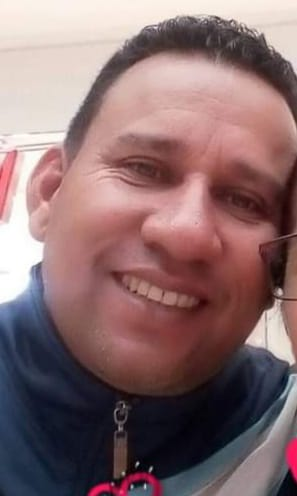
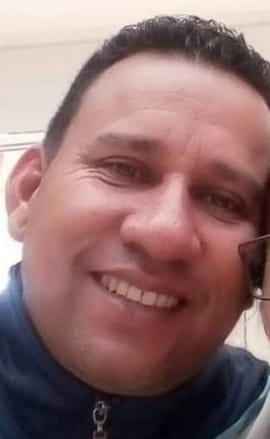
sliders

diff --git a/kindergarten-website-template/about.html b/kindergarten-website-template/about.html
@@ -27,6 +27,10 @@
 
     <!-- Customized Bootstrap Stylesheet -->
     <link href="css/style.css" rel="stylesheet">
+    
+    
+  
+
 </head>
 
 <body>
@@ -77,31 +81,52 @@
         <div class="container">
             <div class="row align-items-center">
                 <div class="col-lg-5">
-                    <img class="img-fluid rounded mb-5 mb-lg-0" src="img/about-1.jpg" alt="">
+                    
                 </div>
-                <div class="col-lg-7">
-                    <p class="section-title pr-5"><span class="pr-2">Learn About Us</span></p>
-                    <h1 class="mb-4">Best School For Your Kids</h1>
-                    <p>Invidunt lorem justo sanctus clita. Erat lorem labore ea, justo dolor lorem ipsum ut sed eos,
-                        ipsum et dolor kasd sit ea justo. Erat justo sed sed diam. Ea et erat ut sed diam sea ipsum est
-                        dolor</p>
-                    <div class="row pt-2 pb-4">
-                        <div class="col-6 col-md-4">
-                            <img class="img-fluid rounded" src="img/about-2.jpg" alt="">
-                        </div>
-                        <div class="col-6 col-md-8">
-                            <ul class="list-inline m-0">
-                                <li class="py-2 border-top border-bottom"><i class="fa fa-check text-primary mr-3"></i>Labore eos amet dolor amet diam</li>
-                                <li class="py-2 border-bottom"><i class="fa fa-check text-primary mr-3"></i>Etsea et sit dolor amet ipsum</li>
-                                <li class="py-2 border-bottom"><i class="fa fa-check text-primary mr-3"></i>Diam dolor diam elitripsum vero.</li>
-                            </ul>
-                        </div>
-                    </div>
-                    <a href="" class="btn btn-primary mt-2 py-2 px-4">Learn More</a>
+                <center><div class="col-lg-7">
+                    <p class="section-title"><span class="pr-2">Reseña Histórica</span></p>
+                   
+                    <p class="lead text-justify">El municipio de El Pital es de origen indígena, de la nación Páez, y sólo se encuentran datos 
+                        desde 1664, donde figuran los dominios del Cacique Pitaló o Pitayó. Las principales tribus de 
+                        esta región fueron los Gorrones, Pajoyes y Achipies. El nombre de El Pital obedece al 
+                        recuerdo del indio Pitayó o Pitaló, que en épocas pretéritas fue cacique distinguido de esa 
+                        zona, pero al llegar los españoles y adueñarse de las tierras, mediante la Ley de la Suprema 
+                        Corona, 1564, se produjo un mestizaje de lenguas que terminó modificando los nombres de 
+                        los sitios, ríos, pueblos y caciques; los españoles tomaban la voz sonora que a ellos más 
+                        les convenía; de Pitayó y se quedaron solamente con El Pital.
+                        En 1664 son fundadas las capellanías de Lagunilla, hoy vereda Hato Viejo, la zarza y Herrera 
+                        del Campo, como primer sacerdote figura Juan Celedonio López y Avilés. En 1709 Don Juan 
+                        Palomino y Salazar, español vecino de Timaná, adquiere la Hacienda del Cacique Pitaló o 
+                        Pitayó, como pago por ser encomendero monistral, los predios que abarcan hoy el sitio de El 
+                        Pital. 
+                        En 1711 la viuda Bárbara del Campo y Salazar llama a unos indígenas paeces de 
+                        Tierradentro y les dona un lote de terreno ubicado en el norte de la quebrada de El Pital. En
+                        1718 Doña Bárbara logra que el caserío adquiera categoría de parroquia de Santa Rosa de
+                        Lima de El Pital.
+                        En 1720 un indígena paez encontró una vitela de la Virgen del Amparo. En 1727 el caserío 
+                        figura como pueblo de Santa Rosa de Lima de El Pital. En 1780 El Pital es erigido distrito 
+                        municipal y su primer alcalde fué el señor Manuel Trujillo. Durante la Guerra Magna, el Pital 
+                        aportó su contingente de luces, vidas y haciendas: tuvieron aquí su fuente bautismal, el 
+                        Capitán Antonio Casanova, quien prestó sus servicios desde 1813 hasta 1831; don
+                        Gregorio Gómez Iriarte, que dispuso de sus cuantiosos intereses en servicios de la patria, y
+                        don Joaquín Gómez Iriarte, Diputado a la Convención de Ocaña en 1828.
+                        Fue también cristianizado en el Pital el doctor José María Rojas Garrido, orador, poeta y 
+                        jurisconsulto; en distintas ocasiones ocupó puesto en las Cámaras Legislativa; fué 
+                        Ministro Plenipotenciario del Gobierno de Colombia ante Venezuela; Secretario de Estado y
+                        Presidente de la República. En 1863 La Junta Constitucional de Colombia dicta la Ley 
+                        denominada “manos muertas”, para expropiar los bienes de las parroquias y el Pital pierde
+                        una considerable suma.
+                        En 1939 La Asamblea del Huila ordena el servicio de alumbrado eléctrico para El Pital. En 
+                        1972 es inaugurada la agencia de la Caja Agraria, su primer director fue don Luís Eduardo 
+                        Pasos. En 1988 es elegido mediante voto popular el señor Gilberto Luís Castillo 
+                        Andrade como primer alcalde bajo esa modalidad.</p>
+                   
+                    
                 </div>
             </div>
         </div>
     </div>
+</center>
     <!-- About End -->
 
 
@@ -113,17 +138,73 @@
                     <div class="d-flex bg-light shadow-sm border-top rounded mb-4" style="padding: 30px;">
                         <i class="flaticon-050-fence h1 font-weight-normal text-primary mb-3"></i>
                         <div class="pl-4">
-                            <h4>Play Ground</h4>
-                            <p class="m-0">Kasd labore kasd et dolor est rebum dolor ut, clita dolor vero lorem amet elitr vero...</p>
-                        </div>
-                    </div>
-                </div>
+                            <div class="accordion" id="accordionExample">
+                                <div class="accordion-item">
+                                  <h2 class="accordion-header">
+                                    <button class="accordion-button" type="button" data-bs-toggle="collapse" data-bs-target="#collapseOne" aria-expanded="true" aria-controls="collapseOne">
+                                     <h4>Misión</h4>
+                                    </button>
+                                  </h2>
+                                  <div id="collapseOne" class="accordion-collapse collapse show" data-bs-parent="#accordionExample">
+                                    <div class="accordion-body">
+                                        <p class="m-0">Como organización social de naturaleza privada, formamos integralmente a los educandos 
+                                            de Preescolar, Básica Primaria, Básica Secundaria y Media Académica, en una propuesta 
+                                            educativa enfocada hacia la autonomía, la inlusión, la responsabilidad moral, ética y cívica, 
+                                            bajo los criterios de identidad, pertenencia y solidaridad en los contextos familiares, 
+                                            sociales, laborales, culturales y ambientales, que respondan a las necesidades individuales 
+                                            y a los retos locales, regionales y nacionales.</p>
+                                              
+                                    </div>
+                                  </div>
+                                </div>
+                                <div class="accordion-item">
+                                  <h2 class="accordion-header">
+                                    <button class="accordion-button collapsed" type="button" data-bs-toggle="collapse" data-bs-target="#collapseTwo" aria-expanded="false" aria-controls="collapseTwo">
+                                      Accordion Item #2
+                                    </button>
+                                  </h2>
+                                  <div id="collapseTwo" class="accordion-collapse collapse" data-bs-parent="#accordionExample">
+                                    <div class="accordion-body">
+                                      <strong>This is the second item's accordion body.</strong> It is hidden by default, until the collapse plugin adds the appropriate classes that we use to style each element. These classes control the overall appearance, as well as the showing and hiding via CSS transitions. You can modify any of this with custom CSS or overriding our default variables. It's also worth noting that just about any HTML can go within the <code>.accordion-body</code>, though the transition does limit overflow.
+                                    </div>
+                                  </div>
+                                </div>
+                                <div class="accordion-item">
+                                  <h2 class="accordion-header">
+                                    <button class="accordion-button collapsed" type="button" data-bs-toggle="collapse" data-bs-target="#collapseThree" aria-expanded="false" aria-controls="collapseThree">
+                                      Accordion Item #3
+                                    </button>
+                                  </h2>
+                                  <div id="collapseThree" class="accordion-collapse collapse" data-bs-parent="#accordionExample">
+                                    <div class="accordion-body">
+                                      <strong>This is the third item's accordion body.</strong> It is hidden by default, until the collapse plugin adds the appropriate classes that we use to style each element. These classes control the overall appearance, as well as the showing and hiding via CSS transitions. You can modify any of this with custom CSS or overriding our default variables. It's also worth noting that just about any HTML can go within the <code>.accordion-body</code>, though the transition does limit overflow.
+                                    </div>
+                                  </div>
+                                </div>
+                              </div>
+                            
+                
                 <div class="col-lg-4 col-md-6 pb-1">
                     <div class="d-flex bg-light shadow-sm border-top rounded mb-4" style="padding: 30px;">
                         <i class="flaticon-022-drum h1 font-weight-normal text-primary mb-3"></i>
                         <div class="pl-4">
-                            <h4>Music and Dance</h4>
-                            <p class="m-0">Kasd labore kasd et dolor est rebum dolor ut, clita dolor vero lorem amet elitr vero...</p>
+                           
+                            <div class="accordion-item">
+                                <h2 class="accordion-header">
+                                  <button class="accordion-button collapsed" type="button" data-bs-toggle="collapse" data-bs-target="#panelsStayOpen-collapseTwo" aria-expanded="false" aria-controls="panelsStayOpen-collapseTwo">
+                                    <h4>Visión</h4>
+                                  </button>
+                                </h2>
+                                <div id="panelsStayOpen-collapseTwo" class="accordion-collapse collapse">
+                                  <div class="accordion-body">
+                                    <p class="m-0">El Colegio Cooperativo Domingo Savio, con su propuesta curricular propia e 
+                                        innovadora, se proyecta para el 2025 ser el líder en la formación de un ciudadano 
+                                        comprometido con su entorno escolar, familiar, social y ambiental, con capacidad para dirigir 
+                                        los cambios que la sociedad necesite.</p>
+                                  </div>
+                                </div>
+                              </div>
+                        
                         </div>
                     </div>
                 </div>
@@ -131,36 +212,31 @@
                     <div class="d-flex bg-light shadow-sm border-top rounded mb-4" style="padding: 30px;">
                         <i class="flaticon-030-crayons h1 font-weight-normal text-primary mb-3"></i>
                         <div class="pl-4">
-                            <h4>Arts and Crafts</h4>
-                            <p class="m-0">Kasd labore kasd et dolor est rebum dolor ut, clita dolor vero lorem amet elitr vero...</p>
-                        </div>
-                    </div>
-                </div>
-                <div class="col-lg-4 col-md-6 pb-1">
-                    <div class="d-flex bg-light shadow-sm border-top rounded mb-4" style="padding: 30px;">
-                        <i class="flaticon-017-toy-car h1 font-weight-normal text-primary mb-3"></i>
-                        <div class="pl-4">
-                            <h4>Safe Transportation</h4>
-                            <p class="m-0">Kasd labore kasd et dolor est rebum dolor ut, clita dolor vero lorem amet elitr vero...</p>
-                        </div>
-                    </div>
-                </div>
-                <div class="col-lg-4 col-md-6 pb-1">
-                    <div class="d-flex bg-light shadow-sm border-top rounded mb-4" style="padding: 30px;">
-                        <i class="flaticon-025-sandwich h1 font-weight-normal text-primary mb-3"></i>
-                        <div class="pl-4">
-                            <h4>Healthy food</h4>
-                            <p class="m-0">Kasd labore kasd et dolor est rebum dolor ut, clita dolor vero lorem amet elitr vero...</p>
-                        </div>
-                    </div>
-                </div>
-                <div class="col-lg-4 col-md-6 pb-1">
-                    <div class="d-flex bg-light shadow-sm border-top rounded mb-4" style="padding: 30px;">
-                        <i class="flaticon-047-backpack h1 font-weight-normal text-primary mb-3"></i>
-                        <div class="pl-4">
-                            <h4>Educational Tour</h4>
-                            <p class="m-0">Kasd labore kasd et dolor est rebum dolor ut, clita dolor vero lorem amet elitr vero...</p>
-                        </div>
+                            
+                            <div class="accordion-item">
+    <h2 class="accordion-header">
+      <button class="accordion-button collapsed" type="button" data-bs-toggle="collapse" data-bs-target="#panelsStayOpen-collapseThree" aria-expanded="false" aria-controls="panelsStayOpen-collapseThree">
+        <h4>Marco legal</h4>
+      </button>
+    </h2>
+    <div id="panelsStayOpen-collapseThree" class="accordion-collapse collapse">
+      <div class="accordion-body">
+        <p class="m-0">El Colegio Cooperativo Domingo Savio en cumplimento a la Ley 115 de febrero de 1994, 
+            Ley general de educación: Artículo 73° “Con el fin de lograr la formación integral del 
+            educando, cada establecimiento educativo deberá elaborar y poner en práctica un 
+            Proyecto Educativo Institucional en el que se especifiquen, entre otros aspectos, los 
+            principios y fines del establecimiento, los recursos docentes y didácticos disponibles y 
+            necesarios, la estrategia pedagógica, el reglamento para docentes y estudiantes y el 
+            sistema de gestión, todo ello encaminado a cumplir con las disposiciones de la ley y sus 
+            reglamentos”. 
+           </p>
+      </div>
+    </div>
+  </div>
+</div>
+                           
+                     
+                
                     </div>
                 </div>
             </div>
@@ -179,7 +255,7 @@
             <div class="row">
                 <div class="col-md-6 col-lg-3 text-center team mb-5">
                     <div class="position-relative overflow-hidden mb-4" style="border-radius: 100%;">
-                        <img class="img-fluid w-100" src="img/maestra.jpg" alt="" >
+                        <img class="img-maestro w-60" src="img/maestra.jpg" alt="">
                         <div
                             class="team-social d-flex align-items-center justify-content-center w-100 h-100 position-absolute">
                             <a class="btn btn-outline-light text-center mr-2 px-0" style="width: 38px; height: 38px;"
@@ -195,7 +271,7 @@
                 </div>
                 <div class="col-md-6 col-lg-3 text-center team mb-5">
                     <div class="position-relative overflow-hidden mb-4" style="border-radius: 100%;">
-                        <img class="img-fluid w-100" src="img/maestra1.jpg" alt="" >
+                        <img class="img-fluid w-60" src="img/maestra5.jpg" alt="" >
                         <div
                             class="team-social d-flex align-items-center justify-content-center w-100 h-100 position-absolute">
                             <a class="btn btn-outline-light text-center mr-2 px-0" style="width: 38px; height: 38px;"
@@ -206,12 +282,12 @@
                                 href="#"><i class="fab fa-linkedin-in"></i></a>
                         </div>
                     </div>
-                    <h4>Luisa Fernanda Bermeo Herrera</h4>
-                    <i>Educadora Secundaria</i>
+                    <h4>Luisa  Bermeo Herrera</h4>
+                    <i>Licenciada en Pedagogia</i>
                 </div>
                 <div class="col-md-6 col-lg-3 text-center team mb-5">
                     <div class="position-relative overflow-hidden mb-4" style="border-radius: 100%;">
-                        <img class="img-fluid w-100" src="img/maestro.jpg" alt="" >
+                        <img class="img-fluid w-60" src="img/maestro.jpg" alt="" >
                         <div
                             class="team-social d-flex align-items-center justify-content-center w-100 h-100 position-absolute">
                             <a class="btn btn-outline-light text-center mr-2 px-0" style="width: 38px; height: 38px;"
@@ -222,24 +298,27 @@
                                 href="#"><i class="fab fa-linkedin-in"></i></a>
                         </div>
                     </div>
-                    <h4>Luis Carlos Méndez Trujillo</h4>
-                    <i>Educador de Educación Fisica</i>
+                    <h4>Luis  Méndez Trujillo</h4>
+                    <i>Educador de Educación Fisica
+
+
+                    </i>
                 </div>
                 <div class="col-md-6 col-lg-3 text-center team mb-5">
                     <div class="position-relative overflow-hidden mb-4" style="border-radius: 100%;">
-                        <img class="img-fluid w-100" src="img/team-4.jpg" alt="" >
+                        <img class="img-docente w-60" src="img/maestro2.jpg" alt="" >
                         <div
                             class="team-social d-flex align-items-center justify-content-center w-100 h-100 position-absolute">
                             <a class="btn btn-outline-light text-center mr-2 px-0" style="width: 38px; height: 38px;"
                                 href="#"><i class="fab fa-twitter"></i></a>
                             <a class="btn btn-outline-light text-center mr-2 px-0" style="width: 38px; height: 38px;"
-                                href="#"><i class="fab fa-facebook-f"></i></a>
+                                href="https://www.facebook.com/freddy.tierradentro?mibextid=ZbWKwL"><i class="fab fa-facebook-f"></i></a>
                             <a class="btn btn-outline-light text-center px-0" style="width: 38px; height: 38px;"
                                 href="#"><i class="fab fa-linkedin-in"></i></a>
                         </div>
                     </div>
-                    <h4>Donald John</h4>
-                    <i>Art Teacher</i>
+                    <h4>Freddy  Tierradentro </h4>
+                    <i>Educador de Ciencias Sociales</i>
                 </div>
             </div>
         </div>
@@ -326,6 +405,7 @@
 
     <!-- Template Javascript -->
     <script src="js/main.js"></script>
+    <script src="https://cdn.jsdelivr.net/npm/bootstrap@5.3.0-alpha3/dist/js/bootstrap.bundle.min.js" integrity="sha384-ENjdO4Dr2bkBIFxQpeoTz1HIcje39Wm4jDKdf19U8gI4ddQ3GYNS7NTKfAdVQSZe" crossorigin="anonymous"></script>
 </body>
 
 </html>

diff --git a/kindergarten-website-template/css/style.css b/kindergarten-website-template/css/style.css
@@ -219,6 +219,7 @@ img{
   width: 90%;
 }
 
+
 svg {
   overflow: hidden;
   vertical-align: middle;
@@ -555,7 +556,19 @@ mark,
 
 .img-fluid {
   max-width: 90%;
-  height: auto;
+
+  width: 60%;
+  height: 60%;
+  border: circle;
+
+}
+.img-maestro{
+  width: 75%;
+  height: 75%;
+}
+.img-docente{
+  width: 63%;
+  height: 63%;
 }
 
 .img-thumbnail {
